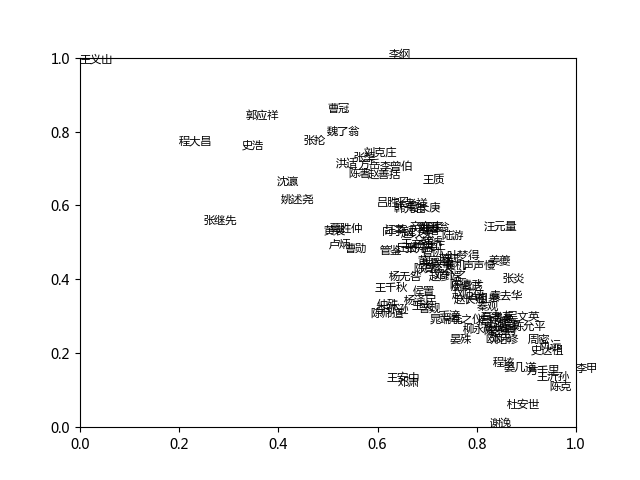
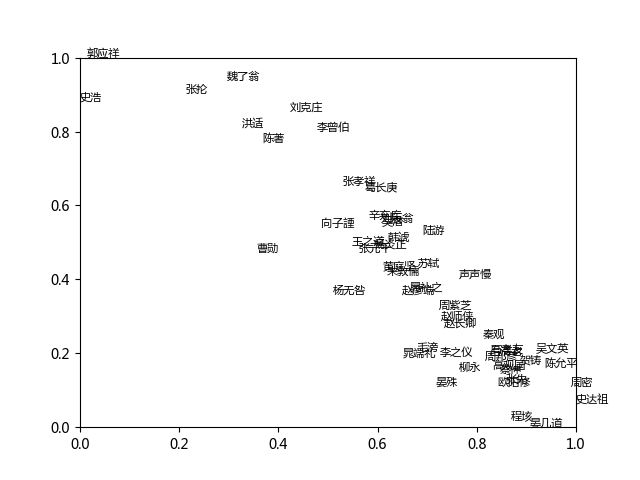
refactor

diff --git a/main.py b/main.py
@@ -1,26 +1,26 @@
 import os
 import random
 
-from constants import WordType, DISPLAY_COUNT
+from constants import WordType, DISPLAY_COUNT, POET_COUNT
 from analyzer import plot_vectors, get_analyzer
 from preprocessor import stem_poem
 
 
-def show_counter(counter):
-    for key, value in counter:
-        print(key, value)
-    print()
-
-
 def entry():
+    # 确定保存位置
     saved_dir = os.path.join(os.curdir, "out")
+
+    # 对宋词进行分词
     result = stem_poem("全宋词.txt", saved_dir)
+
+    # 用word2vector和tfidf算法对所有宋词数据进行学习和分析，得到词向量
     analyzer = get_analyzer(result, saved_dir)
-    # 画图
+
+    # 装填词人的
     tf_idf_vector_list = []
     w2v_vector_list = []
     author_list = []
-    for c in result.author_counter.most_common(100):
+    for c in result.author_counter.most_common(POET_COUNT):
         author = c[0]
         index = analyzer.authors.index(author)
         w2v_vector_list.append(analyzer.w2v_word_vector_tsne[index])
@@ -29,12 +29,13 @@ def entry():
     plot_vectors(tf_idf_vector_list, author_list, 'tf_idf')
     plot_vectors(w2v_vector_list, author_list, 'w2v')
 
-    print("**基于统计的分析")
+    print("统计分析")
+    print("-----------------")
     print("写作数量排名：")
-    most_productive_poets = result.author_counter.most_common(10)
+    most_productive_poets = result.author_counter.most_common(DISPLAY_COUNT)
     show_counter(most_productive_poets)
 
-    print("最常用的词：")
+    print("最常用的非单字词：")
     cnt = 0
     most_frequent_words = []
     for word, count in result.word_counter.most_common():
@@ -49,11 +50,23 @@ def entry():
     most_common_nouns = result.word_property_counter_dict[WordType.NOUN].most_common(DISPLAY_COUNT)
     show_counter(most_common_nouns)
 
-    print("最常见的地名：")
+    print("最常用的地名：")
     show_counter(result.word_property_counter_dict[WordType.PLACE].most_common(DISPLAY_COUNT))
 
-    print("最常见的形容词：")
+    print("最常用的形容词：")
     show_counter(result.word_property_counter_dict[WordType.ADJ].most_common(DISPLAY_COUNT))
+
+    print("最常用的连词：")
+    show_counter(result.word_property_counter_dict[WordType.CONJ].most_common(DISPLAY_COUNT))
+
+    print("最常用的数词：")
+    show_counter(result.word_property_counter_dict[WordType.NUM].most_common(DISPLAY_COUNT))
+
+    print("最常用的介词：")
+    show_counter(result.word_property_counter_dict[WordType.PREP].most_common(DISPLAY_COUNT))
+
+    print("最常用的动词：")
+    show_counter(result.word_property_counter_dict[WordType.VERB].most_common(DISPLAY_COUNT))
 
     print("**基于词向量的分析")
     for word in list(most_common_nouns):
@@ -62,8 +75,8 @@ def entry():
 
     for poet in list(most_productive_poets)[:4]:
         print("与 %s 用词相近的诗人：" % poet[0])
-        print("根据tf-idf标准： %s" % analyzer.find_similar_poet(poet[0]))
-        print("根据word2vector标准： %s\n" % analyzer.find_similar_poet(poet[0], use_w2v=True))
+        print("tf-idf标准： %s" % analyzer.find_similar_poet(poet[0]))
+        print("word2vector标准： %s\n" % analyzer.find_similar_poet(poet[0], use_w2v=True))
 
 
 def shrink():
@@ -92,6 +105,13 @@ def shrink():
 
     with open('全宋词_tiny.txt', 'w', encoding='utf-8') as f:
         f.writelines(poems)
+
+
+def show_counter(counter):
+    for k, v in counter:
+        print(k, v)
+
+    print()
 
 
 if __name__ == '__main__':

diff --git a/preprocessor.py b/preprocessor.py
@@ -112,6 +112,7 @@ def stem_poem(filename, saved_dir):
                         line=line,
                     ))
                     raise e
+
         # 加入最后一次解析的结果
         result.add_cut_poetry(current_author, divided_lines)
         with open(target_file_path, 'wb') as f:

diff --git a/constants.py b/constants.py
@@ -4,9 +4,14 @@ STEM_RESULT_FILENAME = 'stem_result.pkl'
 ANALYZE_RESULT_FILENAME = 'analyze_result.pkl'
 MIN_COUNT = 15
 DISPLAY_COUNT = 10
+POET_COUNT = 50
 
 
 class WordType:
     ADJ = 'a'
     NOUN = 'n'
+    VERB = 'v'
     PLACE = 'ns'
+    CONJ = 'c'
+    PREP = 'p'
+    NUM = 'm'
